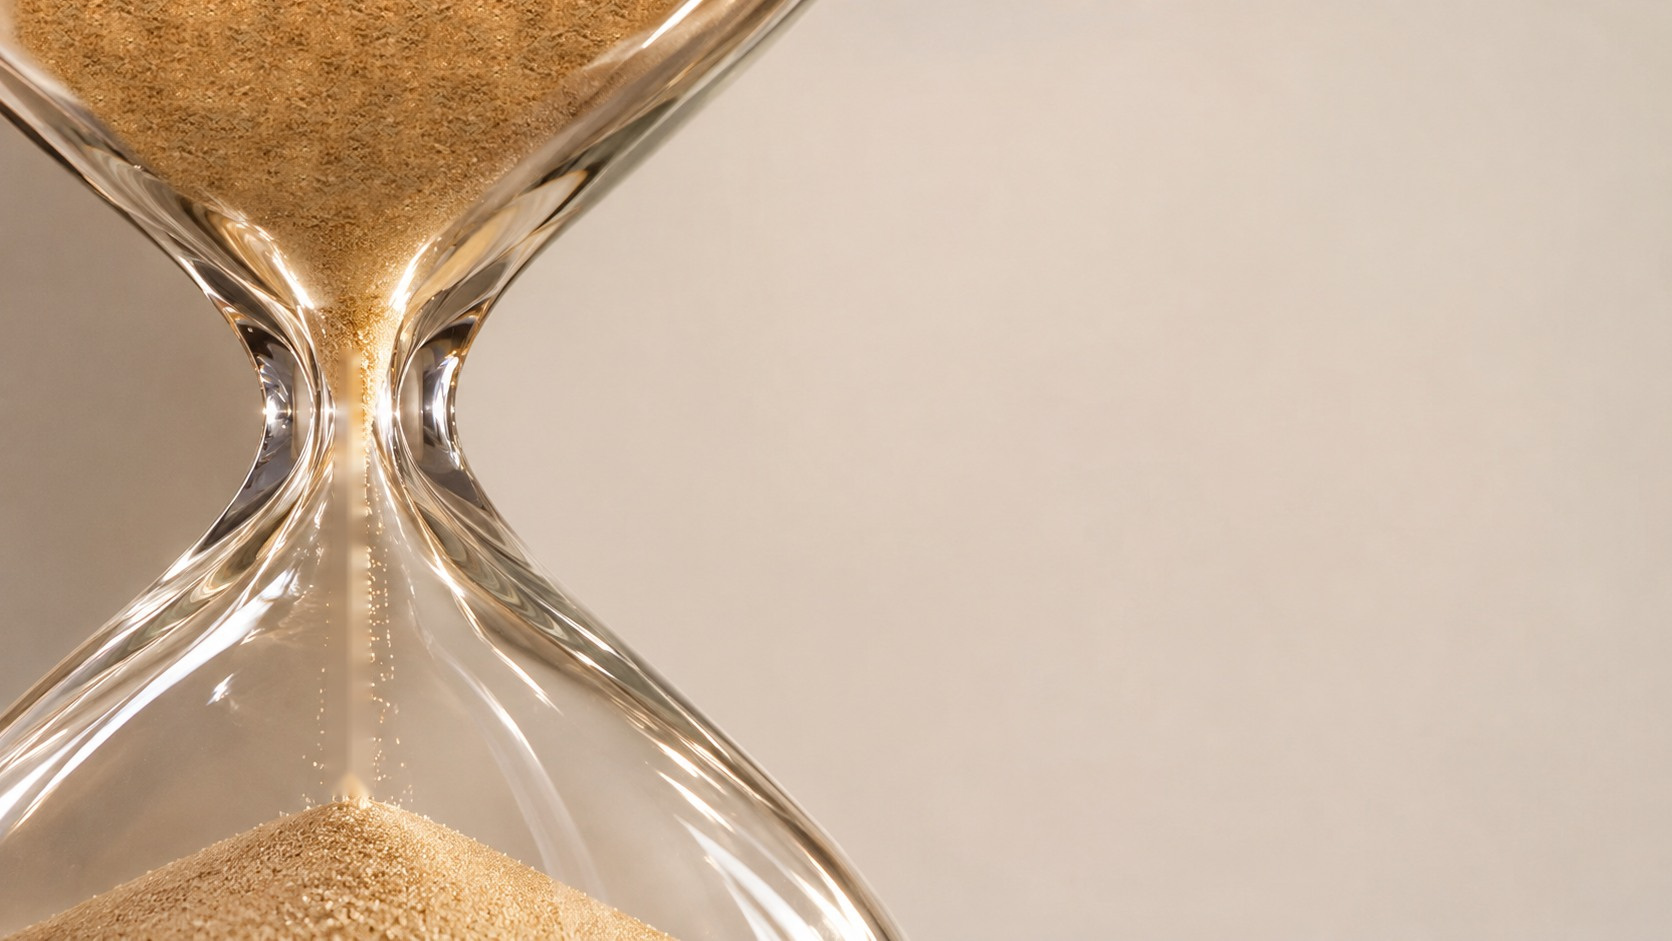
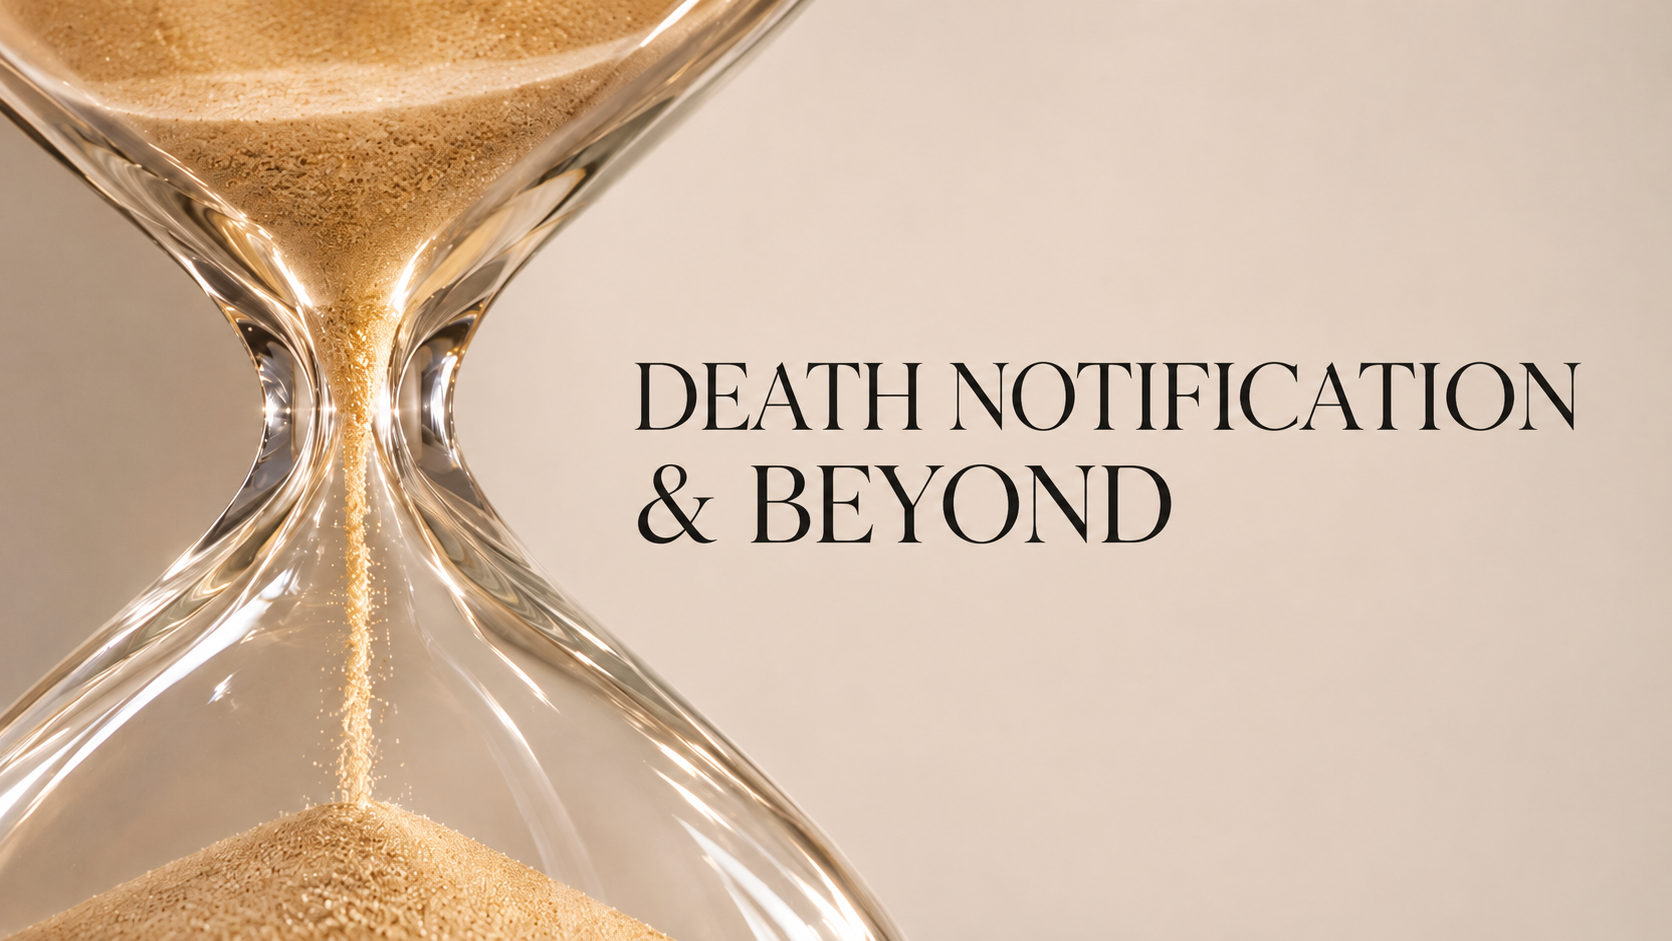
Update OUR GLASS social preview to approved Death Notification & Beyond artwork

diff --git a/index.html b/index.html
@@ -14,16 +14,16 @@
 <meta property="og:site_name" content="OUR GLASS">
 <meta property="og:title" content="OUR GLASS | The Afterword Concierge">
 <meta property="og:description" content="You &amp; Your People. When the Time Comes. Death Notification &amp; Beyond.">
-<meta property="og:image" content="https://raw.githubusercontent.com/industriesbarbph-rgb/OurGlanceHourGlass/main/og-hourglass.jpg">
+<meta property="og:image" content="https://industriesbarbph-rgb.github.io/OurGlanceHourGlass/og-hourglass.jpg?v=20261105">
 <meta property="og:image:type" content="image/jpeg">
 <meta property="og:image:width" content="1672">
 <meta property="og:image:height" content="941">
-<meta property="og:image:alt" content="An oversized glass hourglass with golden sand, framed by a luminous ivory background">
+<meta property="og:image:alt" content="Golden sand flowing through a glass hourglass, with DEATH NOTIFICATION & BEYOND in elegant serif lettering on the right.">
 <meta name="twitter:card" content="summary_large_image">
-<meta name="twitter:image:alt" content="A glass hourglass with flowing golden sand and a warm ivory background">
+<meta name="twitter:image:alt" content="Golden sand flowing through a glass hourglass, with DEATH NOTIFICATION & BEYOND in elegant serif lettering on the right.">
 <meta name="twitter:title" content="OUR GLASS | The Afterword Concierge">
 <meta name="twitter:description" content="You &amp; Your People. When the Time Comes. Death Notification &amp; Beyond.">
-<meta name="twitter:image" content="https://raw.githubusercontent.com/industriesbarbph-rgb/OurGlanceHourGlass/main/og-hourglass.jpg">
+<meta name="twitter:image" content="https://industriesbarbph-rgb.github.io/OurGlanceHourGlass/og-hourglass.jpg?v=20261105">
 <meta name="color-scheme" content="light">
 <script type="application/ld+json">{"@context":"https://schema.org","@type":"WebSite","name":"OUR GLASS","description":"The Afterword Concierge. Death Notification & Beyond.","inLanguage":"en-PH","url":"https://industriesbarbph-rgb.github.io/OurGlanceHourGlass/"}</script>
 <link rel="preconnect" href="https://fonts.googleapis.com">
